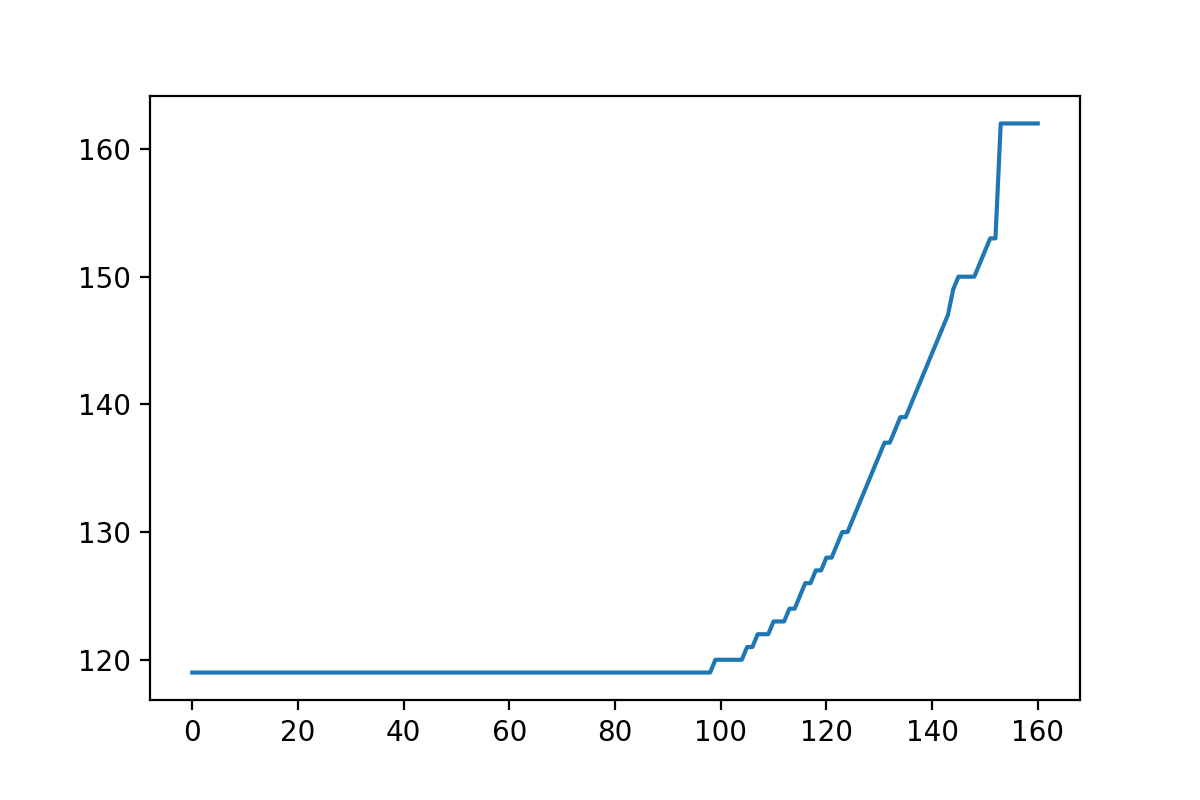
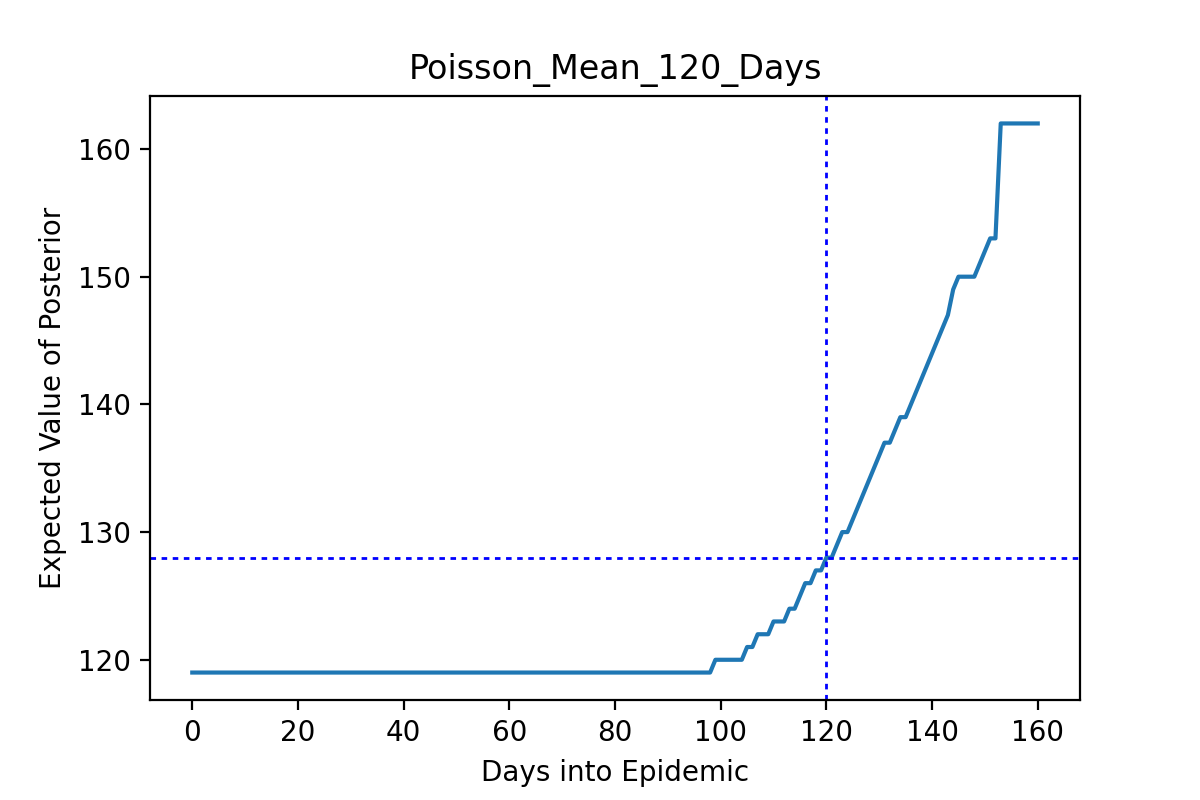
std

diff --git a/sandbox/.ipynb_checkpoints/file1-checkpoint.py b/sandbox/.ipynb_checkpoints/file1-checkpoint.py
@@ -5,9 +5,9 @@ import pandas as pd
 '''MAKE PRIOR'''
 #GENERATOR
 N = 1000
-dist_prior = np.random.poisson(120,N)
-#dist_prior = np.random.exponential(15,N)
-#dist_prior = np.round(dist_prior).copy()
+#dist_prior = np.random.poisson(120,N)
+dist_prior = np.random.exponential(20,N)
+dist_prior = np.round(dist_prior).copy()
 print(dist_prior)
 plt.hist(dist_prior,bins=30)
 
@@ -139,7 +139,7 @@ plt.plot(x)
 
 #RUN OVER RANGE OF t
 catch = ([])
-for t in range(1,dist_prior_event_probs.index[-1]): 
+for t in range(1,int(dist_prior_event_probs.index[-1])): 
     dist_1 = compute_posterior(t, dist_prior_event_probs)
     dist_1 = pd.Series(dist_1, index=dist_prior_event_probs.index)
     print('dist_1 sum: ', dist_1.sum())
@@ -147,13 +147,29 @@ for t in range(1,dist_prior_event_probs.index[-1]):
     print('median_posterior', median_of_dist(dist_1))
     catch = np.append(catch, median_of_dist(dist_1))
 
+
+    
+    
+'''PLOT POISSON AS EXAMPLE'''
+mean_of_dist = 120
 plt.plot(catch)
 plt.title('Poisson_Mean_120_Days')
 plt.xlabel('Days into Epidemic')
 plt.ylabel('Expected Value of Posterior')
-
+plt.axvline(x=mean_of_dist, c='b',dashes=(2,2,2,2),linewidth=1)
+plt.axhline(y=catch[mean_of_dist], c='b',dashes=(2,2,2,2),linewidth=1)
 plt.savefig('Poisson_Mean_120.png',dpi=200)
 
+    
+'''PLOT EXPONENTIAL AS EXAMPLE'''
+mean_of_dist = 20
+plt.plot(catch)
+plt.title('Exponential_Mean_20_Days')
+plt.xlabel('Days into Epidemic')
+plt.ylabel('Expected Value of Posterior')
+plt.axvline(x=mean_of_dist, c='b',dashes=(2,2,2,2),linewidth=1)
+plt.axhline(y=catch[mean_of_dist], c='b',dashes=(2,2,2,2),linewidth=1)
+plt.savefig('Exponential_Mean_20.png',dpi=200)
 
 
 

diff --git a/sandbox/file1.py b/sandbox/file1.py
@@ -5,9 +5,9 @@ import pandas as pd
 '''MAKE PRIOR'''
 #GENERATOR
 N = 1000
-dist_prior = np.random.poisson(120,N)
-#dist_prior = np.random.exponential(15,N)
-#dist_prior = np.round(dist_prior).copy()
+#dist_prior = np.random.poisson(120,N)
+dist_prior = np.random.exponential(20,N)
+dist_prior = np.round(dist_prior).copy()
 print(dist_prior)
 plt.hist(dist_prior,bins=30)
 
@@ -139,7 +139,7 @@ plt.plot(x)
 
 #RUN OVER RANGE OF t
 catch = ([])
-for t in range(1,dist_prior_event_probs.index[-1]): 
+for t in range(1,int(dist_prior_event_probs.index[-1])): 
     dist_1 = compute_posterior(t, dist_prior_event_probs)
     dist_1 = pd.Series(dist_1, index=dist_prior_event_probs.index)
     print('dist_1 sum: ', dist_1.sum())
@@ -147,13 +147,29 @@ for t in range(1,dist_prior_event_probs.index[-1]):
     print('median_posterior', median_of_dist(dist_1))
     catch = np.append(catch, median_of_dist(dist_1))
 
+
+    
+    
+'''PLOT POISSON AS EXAMPLE'''
+mean_of_dist = 120
 plt.plot(catch)
 plt.title('Poisson_Mean_120_Days')
 plt.xlabel('Days into Epidemic')
 plt.ylabel('Expected Value of Posterior')
-
+plt.axvline(x=mean_of_dist, c='b',dashes=(2,2,2,2),linewidth=1)
+plt.axhline(y=catch[mean_of_dist], c='b',dashes=(2,2,2,2),linewidth=1)
 plt.savefig('Poisson_Mean_120.png',dpi=200)
 
+    
+'''PLOT EXPONENTIAL AS EXAMPLE'''
+mean_of_dist = 20
+plt.plot(catch)
+plt.title('Exponential_Mean_20_Days')
+plt.xlabel('Days into Epidemic')
+plt.ylabel('Expected Value of Posterior')
+plt.axvline(x=mean_of_dist, c='b',dashes=(2,2,2,2),linewidth=1)
+plt.axhline(y=catch[mean_of_dist], c='b',dashes=(2,2,2,2),linewidth=1)
+plt.savefig('Exponential_Mean_20.png',dpi=200)
 
 
 
